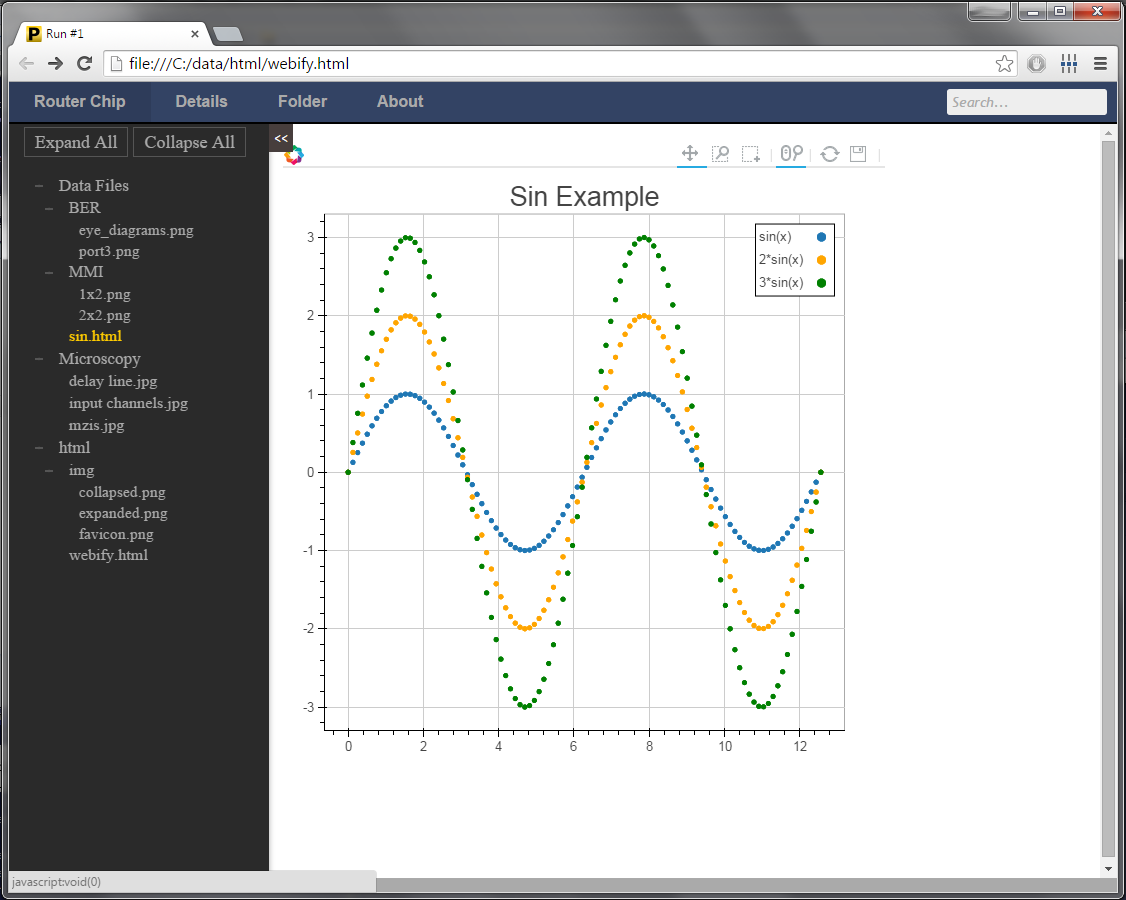
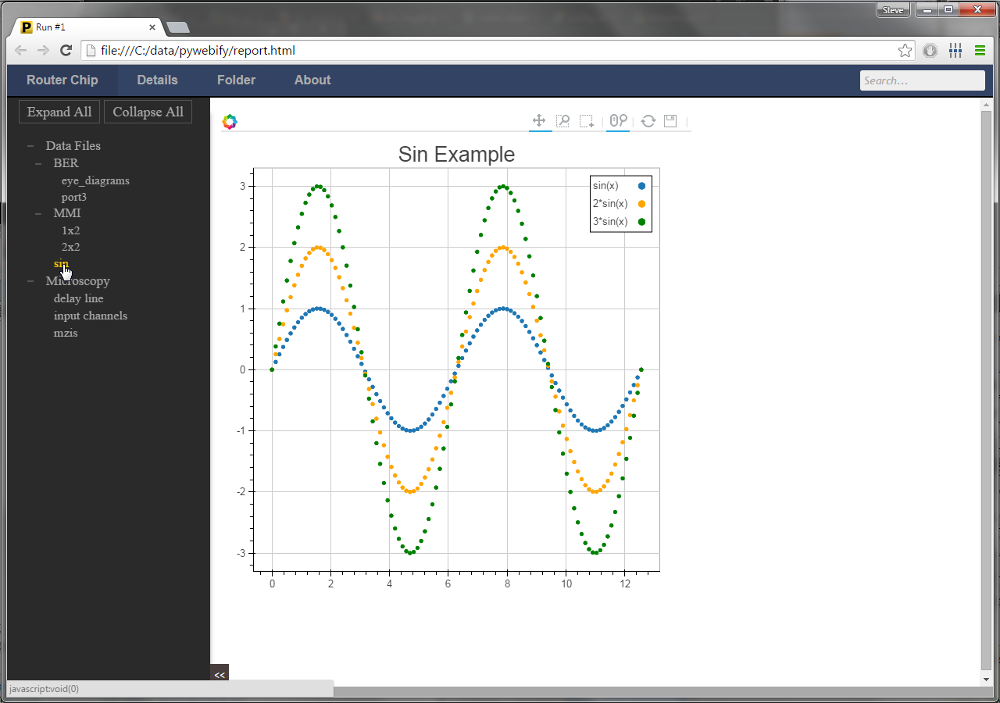
toggle issue updates
* moved button to bottom of screen
* updated js to position automatically
* updated doc images to match

diff --git a/pywebify/js/div_switch.js b/pywebify/js/div_switch.js
@@ -22,20 +22,17 @@ function div_switch (name){
             var newHTML = document.createElement("object");
             newHTML.data = name;
             newHTML.id = "html0";
-            newHTML.width='98%';
+            newHTML.width='100%';
             newHTML.height='100%';
             oldTHML.parentNode.replaceChild(newHTML, oldTHML);
         }
         else{
             // HTML not found, so create and add
-            var newDiv = document.createElement('div');
             var summary = document.getElementById('summary');
-            newDiv.style.display = 'inline';
-            dv.appendChild(newDiv);
             var newHTML = document.createElement("object");
             newHTML.data = name;
             newHTML.id = "html0";
-            newHTML.width='98%';
+            newHTML.width='100%';
             newHTML.height='100%';
             dv.insertBefore(newHTML, summary);
            
@@ -56,7 +53,11 @@ function div_switch (name){
         {
             // Image found, so replace with new
             image.removeAttribute('width');
-            image.style.maxWidth='98%';
+            image.style.maxWidth='100%';
+            // Center images
+            // image.style.display = 'block';
+            // image.style.marginLeft = 'auto';
+            // image.style.marginRight = 'auto';
             image.src = name;
         }
         else{
@@ -66,7 +67,11 @@ function div_switch (name){
             image.src = name;
             image.id = "img0";
             image.removeAttribute('width');
-            image.style.maxWidth='98%';
+            image.style.maxWidth='100%';
+            // Center images
+            // image.style.display = 'block';
+            // image.style.marginLeft = 'auto';
+            // image.style.marginRight = 'auto';
             dv.insertBefore(image, summary);
         }
         var width0 = 0;

diff --git a/pywebify/js/div_toggle.js b/pywebify/js/div_toggle.js
@@ -12,6 +12,15 @@ function div_toggle() {
     $('#sidebar').animate({width:origWidth});
     $('#toggle').html('<<');
     });
+    
+    // position the toggle at the bottom and account for a reduced viewer div height
+    var h1 = $('#viewer').height();
+    $('#viewer').height('100%');
+    var h2 = $('#viewer').height();
+    var h3 = h2-h1;
+    
+    $('#toggle').css({'bottom':h3+'px'});
+    $('#viewer').height(h1);
 };
 
 $(document).ready( function() {

diff --git a/pywebify/templates/html/webify.html b/pywebify/templates/html/webify.html
@@ -20,7 +20,7 @@ $SIDEBAR
         </div>
 
         <div id="viewer">
-			<button id="toggle"><<</button>
+            <button id="toggle"><<</button>
             <div id="summary">
                 $SUMMARY
             </div>

diff --git a/pywebify/pywebify.py b/pywebify/pywebify.py
@@ -35,7 +35,7 @@ class PyWebify():
         self.make = False
         self.navbar_path = ''
         self.open = True
-        self.output_name = 'webify'
+        self.output_name = 'report'
         self.output_path = None
         self.rel_path = os.path.dirname(__file__)
         self.report_folder = 'pywebify'
@@ -87,7 +87,7 @@ class PyWebify():
         self.html_path = r'%s' % self.config.get('TEMPLATES','html')
         self.check_path('html_path', 'HTML TEMPLATE')
         self.html = Template(self.html_path,[self.html_dict, self.special])
-        self.html.write(dest=osjoin(self.output_path, 'webify.html'))
+        self.html.write(dest=osjoin(self.output_path, '%s.html' % self.output_name))
 
     def build_navbar(self):
         ''' Build the top level navbar menu for the report '''
